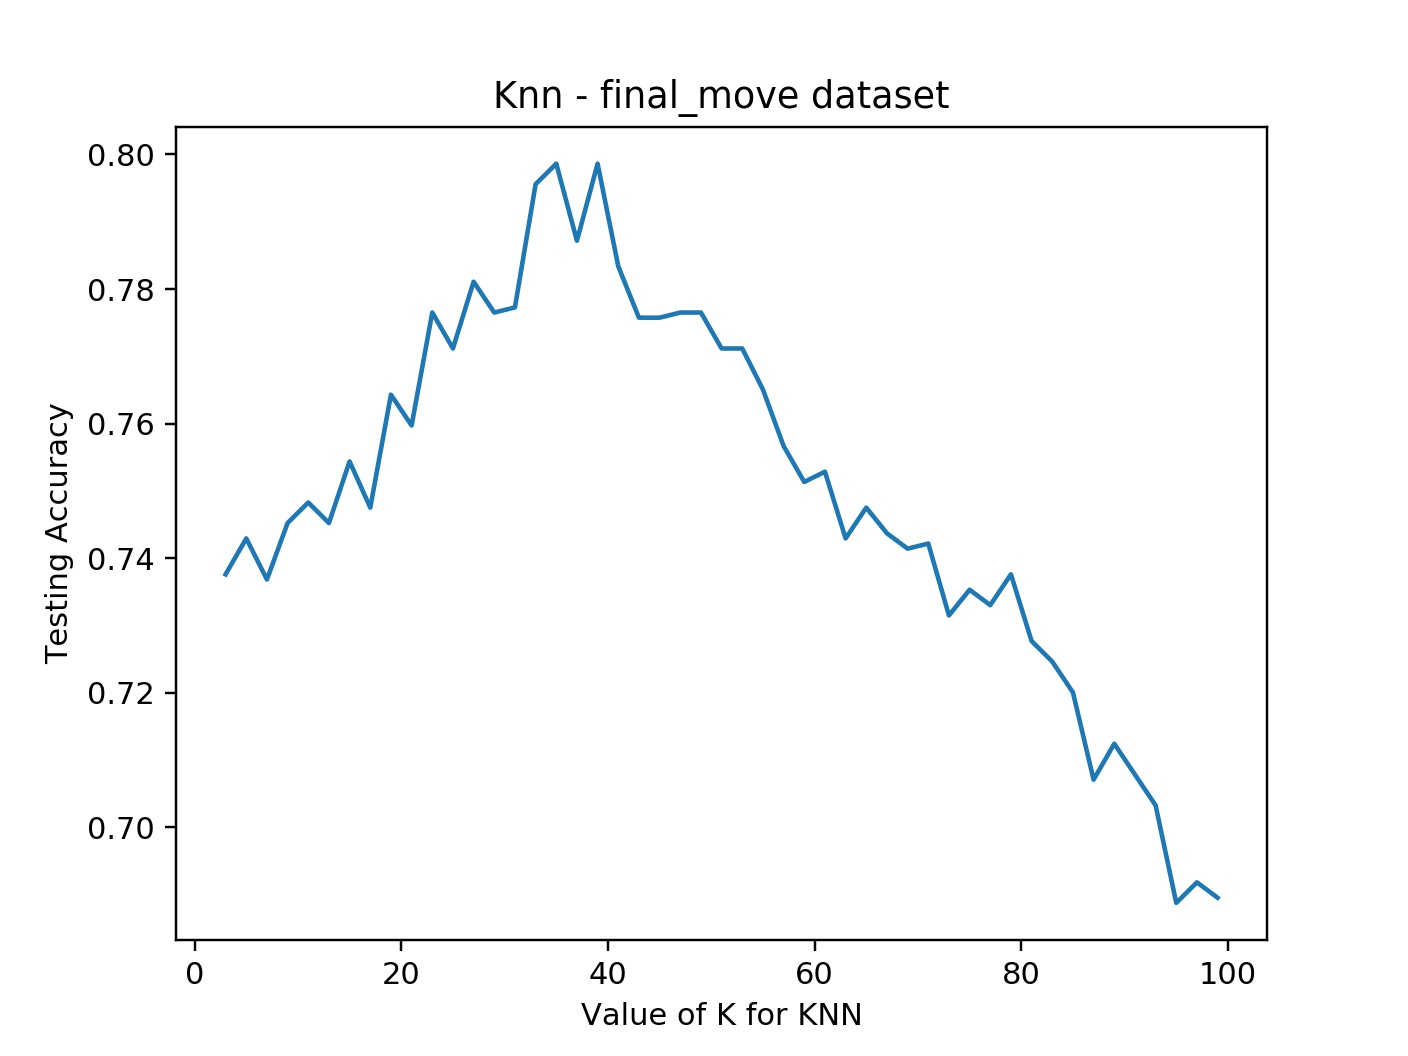
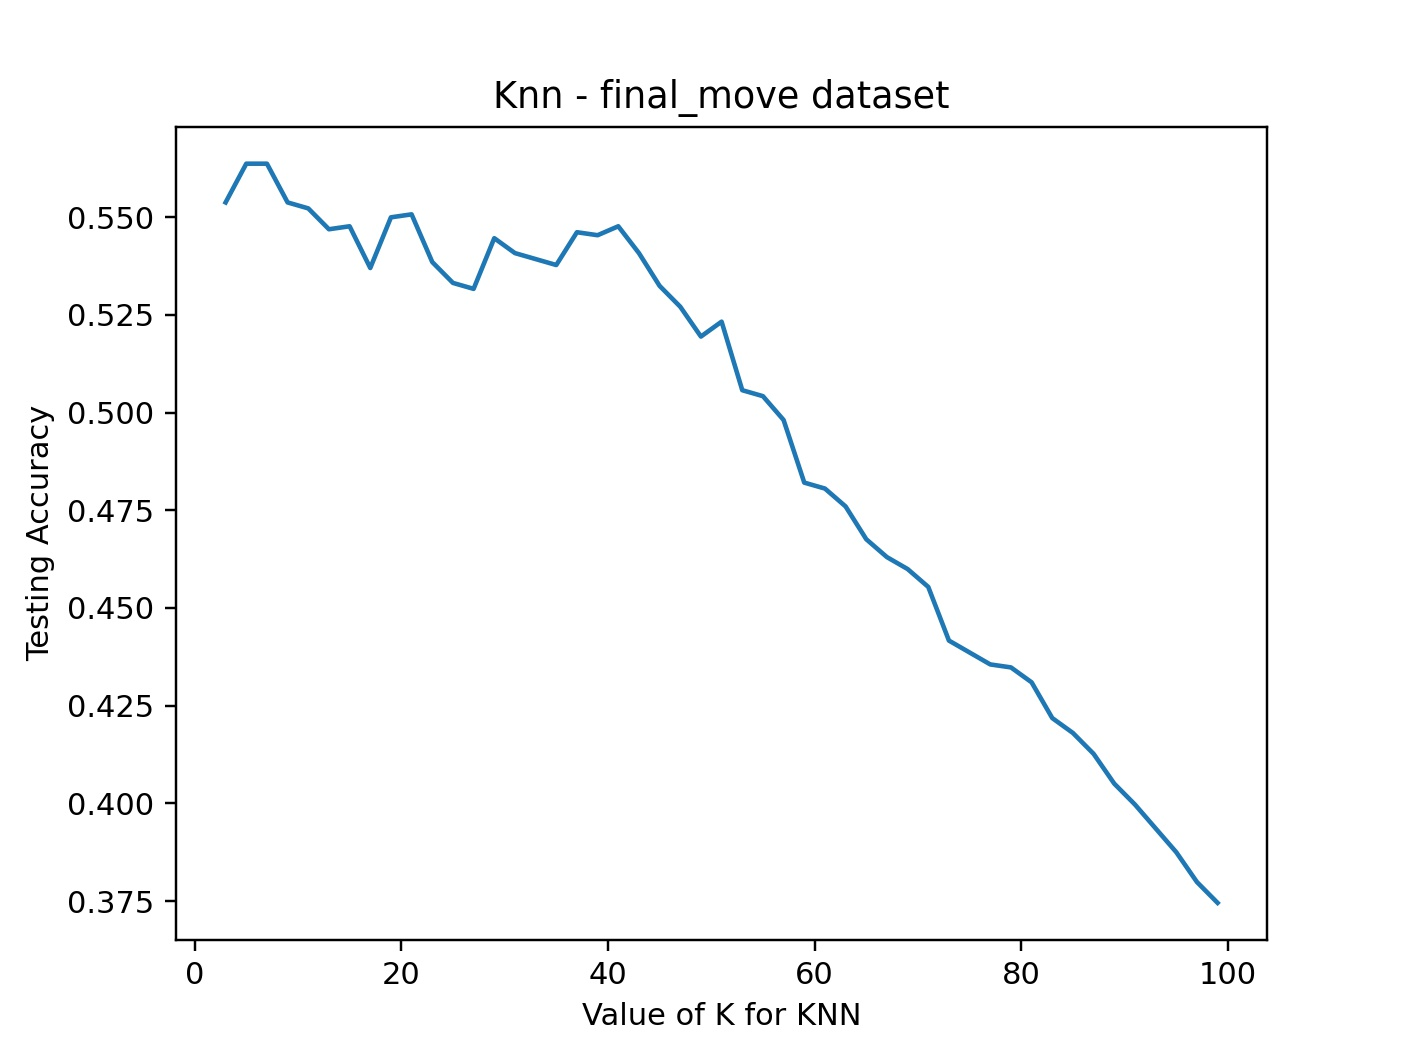
Multiclass MLP and KNN

diff --git a/Regressor.py b/Regressor.py
@@ -1,0 +1,125 @@
+import matplotlib.pyplot as plt
+import numpy as np
+from sklearn import svm
+from sklearn.model_selection import cross_val_score, GridSearchCV, KFold
+from sklearn.neighbors import KNeighborsRegressor
+from sklearn.neural_network import MLPRegressor
+
+from Utils import Utils
+
+
+class Regressor:
+    def train_knn(self, np_x_train, np_y_train, k_list):
+        knn_regressors = []
+
+        for k_value in k_list:
+            regressor = KNeighborsRegressor(n_neighbors=k_value)
+            # Train the model
+            regressor.fit(np_x_train, np_y_train)
+            knn_regressors.append(regressor)
+
+        # return the k_value and  corresponding regressor.
+        return dict(zip(k_list, knn_regressors))
+
+    def regression_using_knn(self, np_x_train, np_x_test, np_y_train, np_y_test):
+        k_list = list(range(3, 100))
+        y_pred_list = []
+        accuracy_threshold_fixed = []
+        accuracy_threshold_mean = []
+
+        regressor_dict = self.train_knn(np_x_train, np_y_train, k_list)
+
+        for k_value in regressor_dict:
+            print("k value in multiclass knn -> " + str(k_value))
+            knn_regressor = regressor_dict[k_value]
+            y_pred = knn_regressor.predict(np_x_test) # 1311 x 9
+            y_pred_list.append(y_pred)
+
+            y_pred_fixed = np.where(y_pred > 0.5, 1, 0)
+            y_pred_mean = np.where(y_pred > np.mean(y_pred), 1, 0)
+
+            accuracy_fixed = Utils.get_accuracy_score(np_y_test, y_pred_fixed)
+            accuracy_threshold_fixed.append(accuracy_fixed)
+            print(accuracy_fixed)
+
+            accuracy_mean = Utils.get_accuracy_score(np_y_test, y_pred_mean)
+            accuracy_threshold_mean.append(accuracy_mean)
+            print(accuracy_mean)
+            print("---" * 5)
+
+        # Get the k for which there is maximum accuracy
+        best_k_fixed = k_list[accuracy_threshold_fixed.index(max(accuracy_threshold_fixed))]
+        best_k_mean = k_list[accuracy_threshold_mean.index(max(accuracy_threshold_mean))]
+
+        print("Optimal K for fixed threshold: {0}".format(best_k_fixed))
+        print(accuracy_threshold_fixed[accuracy_threshold_fixed.index(max(accuracy_threshold_fixed))])
+
+        print("Optimal K for mean as threshold: {0}".format(best_k_mean))
+        print(accuracy_threshold_mean[accuracy_threshold_mean.index(max(accuracy_threshold_mean))])
+
+    def regression_using_mlp(self, np_x_train, np_x_test, np_y_train, np_y_test):
+        folds = KFold(n_splits=5, shuffle=True, random_state=1)
+        param_grid = [
+            {
+                "learning_rate_init": [1e-04, 1e-05, 1e-02],
+                'max_iter': [500, 1000],
+                'hidden_layer_sizes': [
+                    (200, 200, 9), (250, 250, 9), (100, 100, 9)
+                ]
+            }
+        ]
+
+        clf = GridSearchCV(MLPRegressor(random_state=1,
+                                        activation='relu',
+                                        solver='adam',
+                                        alpha=1e-5,
+                                        learning_rate_init=1e-04),
+                           param_grid, cv=folds)
+        clf.fit(np_x_train, np_y_train)
+        best_score = clf.best_score_
+        print(best_score)
+        print("Best parameters set found on development set:")
+        print(clf.best_params_)
+
+        best_hyperparams = clf.best_params_
+        # print(best_hyperparams)
+        # clf = MLPRegressor(solver='adam', alpha=1e-5,
+        #                    hidden_layer_sizes=(200, 200, 9),
+        #                    random_state=1,
+        #                    max_iter=1000)
+        clf.fit(np_x_train, np_y_train)
+        # y_pred = clf.predict(np_x_test)
+        # y_pred_fixed = np.where(y_pred > 0.5, 1, 0)
+        # y_pred_mean = np.where(y_pred > np.mean(y_pred), 1, 0)
+        #
+        # accuracy_fixed = Utils.get_accuracy_score(np_y_test, y_pred_fixed)
+        # print(accuracy_fixed)
+        #
+        # accuracy_mean = Utils.get_accuracy_score(np_y_test, y_pred_mean)
+        # print(accuracy_mean)
+
+        # best_score = clf.best_score_
+        # print("Best parameters set found on development set:")
+        # print(clf.best_params_)
+        #
+        # best_hyperparams = clf.best_params_
+        # print("The best test score is {0} corresponding to hyperparameters {1}"
+        #       .format(best_score, best_hyperparams))
+        # activation = best_hyperparams['activation']
+        # hidden_layer_sizes = best_hyperparams['hidden_layer_sizes']
+        #
+        # final_clf = MLPRegressor(max_iter=100, activation=activation,
+        #                           hidden_layer_sizes=hidden_layer_sizes)
+        # final_clf.fit(np_x_train, np_y_train)
+        #
+        # y_pred = final_clf.predict(np_x_test)
+        #
+        # y_pred_fixed = np.where(y_pred > 0.5, 1, 0)
+        # y_pred_mean = np.where(y_pred > np.mean(y_pred), 1, 0)
+        #
+        # accuracy_fixed = Utils.get_accuracy_score(np_y_test, y_pred_fixed)
+        # print("Accuracy linear MLP with fixed threshold: {0}".format(accuracy_fixed))
+        #
+        # accuracy_mean = Utils.get_accuracy_score(np_y_test, y_pred_mean)
+        # print("Accuracy linear MLP with mean threshold: {0}".format(accuracy_mean))
+        # print("---" * 5)

diff --git a/Classifier.py b/Classifier.py
@@ -108,14 +108,57 @@ class Classifier:
     def train_knn(self, np_X_train, np_Y_train, k_list):
         cv_score = []
         knn_classifiers = []
+
         for k_value in k_list:
-            classifier = KNeighborsClassifier(n_neighbors=k_value)
+            classifier = KNeighborsClassifier(n_neighbors = k_value)
+            # Train the model
             classifier.fit(np_X_train, np_Y_train)
+
+            # scores is an array after running 10 times
             scores = cross_val_score(classifier, np_X_train, np_Y_train, cv=10,
                                      scoring="accuracy")
             cv_score.append(np.mean(scores))
             knn_classifiers.append(classifier)
+
+        # return a corresponding classifers and cv_score for each of the kValues
         return dict(zip(k_list, knn_classifiers)), dict(zip(k_list, cv_score))
+
+    def multiClassify_using_knn(self, np_X_train, np_X_test, np_Y_train, np_Y_test):
+        k_list = list(range(3, 100, 2))
+
+        # call the training method
+        # Gets two dictionaries mapping classifier object and cv_score for each k_value
+        classifier_dict, k_cv_score_dict = self.train_knn(np_X_train, np_Y_train, k_list)
+
+        knn_score_list = []
+
+        # Print the Train Accuracy (cross validation score)
+        print("K value      cv_score")
+        for items in k_cv_score_dict:
+            print(str(items) + " ----- " + str(k_cv_score_dict[items]))
+
+        print("Test Accuracies:")
+        for k_value in classifier_dict:
+            print("K value in knn -> " + str(k_value))
+            knn_classifier = classifier_dict[k_value]
+            # Get the test accuracy for the test data
+            knn_score = knn_classifier.score(np_X_test, np_Y_test)
+            knn_score_list.append(knn_score)
+            print("knn_score: " + str(knn_score))
+            # confusion_mat, pred_accu = knn.calculate_decision_metric(y_true, y_pred)
+
+        # Get the k for which there is maximum accuracy
+        optimal_k = k_list[knn_score_list.index(max(knn_score_list))]
+        optimal_knn_classifier = classifier_dict[optimal_k]
+
+        print("Optimal K: {0}".format(optimal_k))
+        print("Optimal knn test accuracy: {0}"
+              .format(optimal_knn_classifier.score(np_X_test, np_Y_test)))
+
+        self.__plot_knn_accuracy(k_list, knn_score_list, "Knn - final_move dataset",
+                                 "./Plots/knn_final_move_plot.jpg")
+
+
 
     @staticmethod
     def test_knn(X_test, classifier):

diff --git a/classifier_final_dataset.py b/classifier_final_dataset.py
@@ -2,14 +2,17 @@ from sklearn.model_selection import StratifiedKFold
 
 from Classifier import Classifier
 from Linear_regressor import Linear_regressor
+from Regressor import Regressor
 from dataloader import DataLoader
 
 
 class ML_Algo:
     def execute_classifier(self, final_dataset_path, split_size):
         dL = DataLoader()
+
         np_X_train, np_X_test, np_Y_train, np_Y_test = \
             dL.preprocess_data_from_csv(final_dataset_path, split_size)
+
         classifier = Classifier()
 
         print("---" * 20)
@@ -24,13 +27,30 @@ class ML_Algo:
         print("3. Model: MLP")
         classifier.classify_using_MLP(np_X_train, np_X_test, np_Y_train, np_Y_test)
 
+    def execute_multiclassifer(self, final_dataset_path, split_size):
+        dl = DataLoader()
+
+        np_X_train, np_X_test, np_Y_train, np_Y_test = \
+            dl.preprocess_data_from_csv_multi(final_dataset_path, split_size)
+
+        classifier = Classifier()
+
+        print("---" * 20)
+        print("1. Model: KNN for Multiclass")
+        classifier.multiClassify_using_knn(np_X_train, np_X_test, np_Y_train, np_Y_test)
+
+
     def execute_regressor(self, final_dataset_path, split_size):
         dL = DataLoader()
         np_X_train, np_X_test, np_Y_train, np_Y_test = \
             dL.preprocess_data_from_csv_multi(final_dataset_path, split_size)
         lin_reg = Linear_regressor()
 
-        print("1. Linear regressor")
-        lin_reg.do_lin_reg(np_X_train, np_X_test, np_Y_train, np_Y_test)
+        # print("1. Linear regressor")
+        # lin_reg.do_lin_reg(np_X_train, np_X_test, np_Y_train, np_Y_test)
+
+        regressor = Regressor()
+        regressor.regression_using_knn(np_X_train, np_X_test, np_Y_train, np_Y_test)
+
 
 

diff --git a/main_classifier.py b/main_classifier.py
@@ -1,22 +1,27 @@
 from classifier_final_dataset import ML_Algo
 
 if __name__ == '__main__':
-    print("--> Final move dataset: <--")
+    # print("--> Final move dataset: <--")
     # final_dataset_path = "datasets-part1/tictac_final.txt"
     # split_size = 0.8
-    # classifier_final_dataset = Classifier_final_dataset()
+    # classifier_final_dataset = ML_Algo()
     # classifier_final_dataset.execute_classifier(final_dataset_path, split_size)
-
+    #
     # print("####" * 20)
     # print("--> Single class classification move dataset: <--")
     # final_dataset_path = "datasets-part1/tictac_single.txt"
     # split_size = 0.8
-    # classifier_final_dataset = Classifier_final_dataset()
+    # classifier_final_dataset = ML_Algo()
     # classifier_final_dataset.execute_classifier(final_dataset_path, split_size)
 
     print("####" * 20)
     print("--> Multi class classification move dataset: <--")
     final_dataset_path = "datasets-part1/tictac_multi.txt"
     split_size = 0.8
-    algo = ML_Algo()
-    algo.execute_regressor(final_dataset_path, split_size)
+    multiClass_final_dataset = ML_Algo()
+    multiClass_final_dataset.execute_regressor(final_dataset_path, split_size)
+
+
+
+
+    # algo.execute_regressor(final_dataset_path, split_size)

diff --git a/dataloader.py b/dataloader.py
@@ -1,7 +1,7 @@
 import os
 
 import numpy as np
-import pandas as pd
+#import pandas as pd
 
 from Utils import Utils
 
@@ -33,14 +33,17 @@ class DataLoader:
         np_arr = np.loadtxt(dataset_path)
         np_X = np_arr[:, :9]
         np_Y = np_arr[:, 9:]
+
         print("ps_np_covariates_X: {0}".format(np_X.shape))
         print("ps_np_treatment_Y: {0}".format(np_Y.shape))
 
         np_X_train, np_X_test, np_Y_train, np_Y_test = \
             Utils.test_train_split(np_X, np_Y, split_size)
+
         print("np_covariates_X_train: {0}".format(np_X_train.shape))
         print("np_covariates_Y_train: {0}".format(np_Y_train.shape))
 
         print("np_covariates_X_test: {0}".format(np_X_test.shape))
         print("np_covariates_Y_test: {0}".format(np_Y_test.shape))
+
         return np_X_train, np_X_test, np_Y_train, np_Y_test

diff --git a/MultiClassRegression.py b/MultiClassRegression.py
@@ -1,0 +1,14 @@
+from Regressor import Regressor
+from dataloader import DataLoader
+
+class RegressionAlgorithms:
+    def multiclass_regression(self, final_dataset_path, split_size):
+        dL = DataLoader()
+        np_x_train, np_x_test, np_y_train, np_y_test = \
+            dL.preprocess_data_from_csv_multi(final_dataset_path, split_size)
+
+        startRegression = Regressor()
+        # startRegression.regression_using_knn(np_x_train, np_x_test, np_y_train, np_y_test)
+
+        startRegression.regression_using_mlp(np_x_train, np_x_test,
+                                             np_y_train, np_y_test)

diff --git a/main_regressor.py b/main_regressor.py
@@ -1,0 +1,9 @@
+from MultiClassRegression import RegressionAlgorithms
+
+if __name__ == '__main__':
+    print("####" * 20)
+    print("--> Multi class Regression move dataset: <--")
+    final_dataset_path = "datasets-part1/tictac_multi.txt"
+    split_size = 0.8
+    do_regression = RegressionAlgorithms()
+    do_regression.multiclass_regression(final_dataset_path, split_size)
